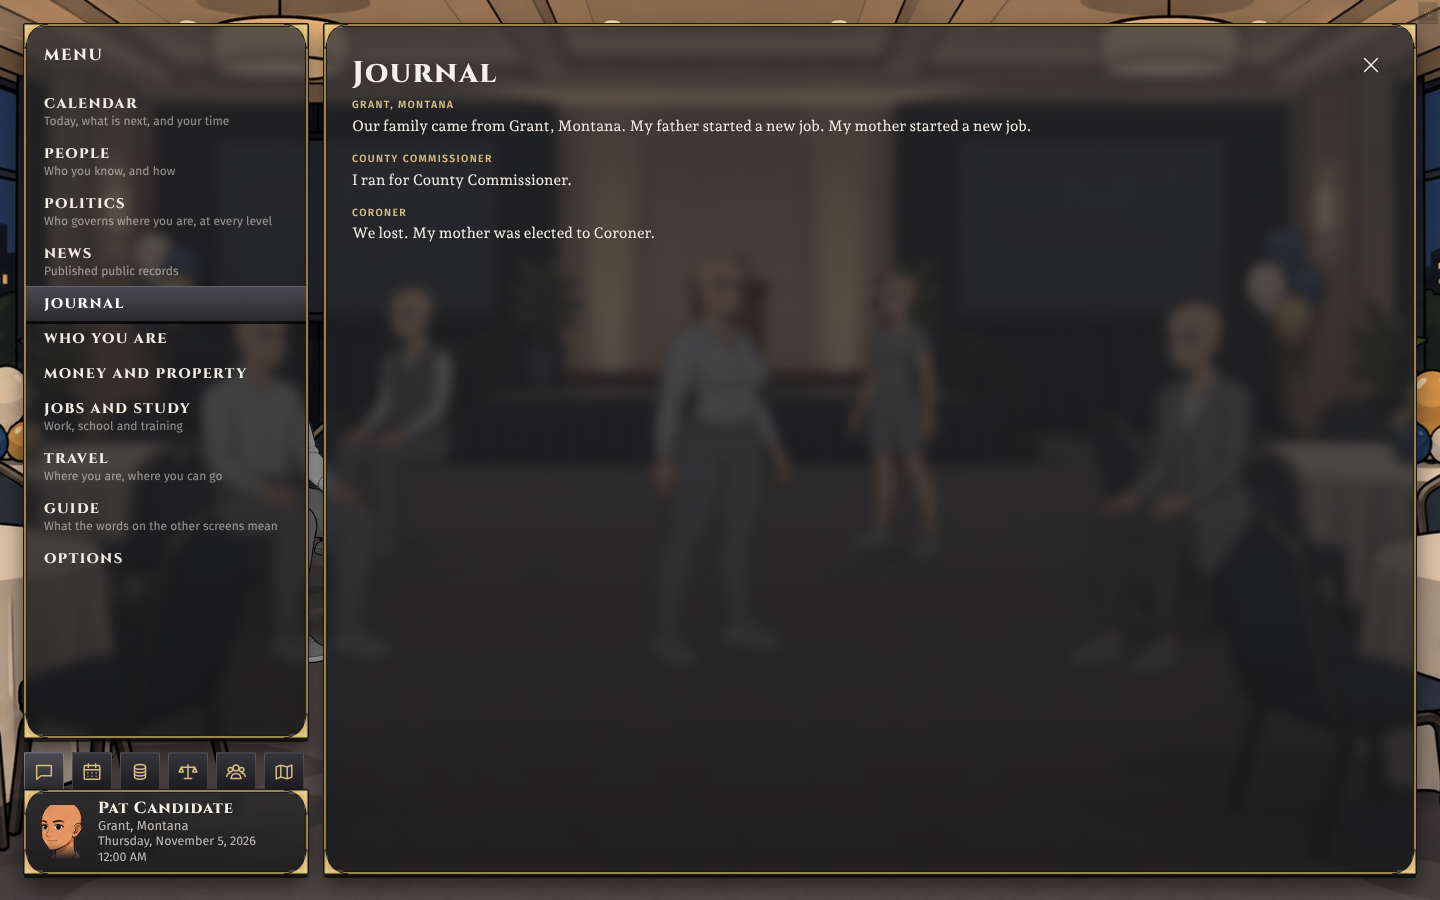
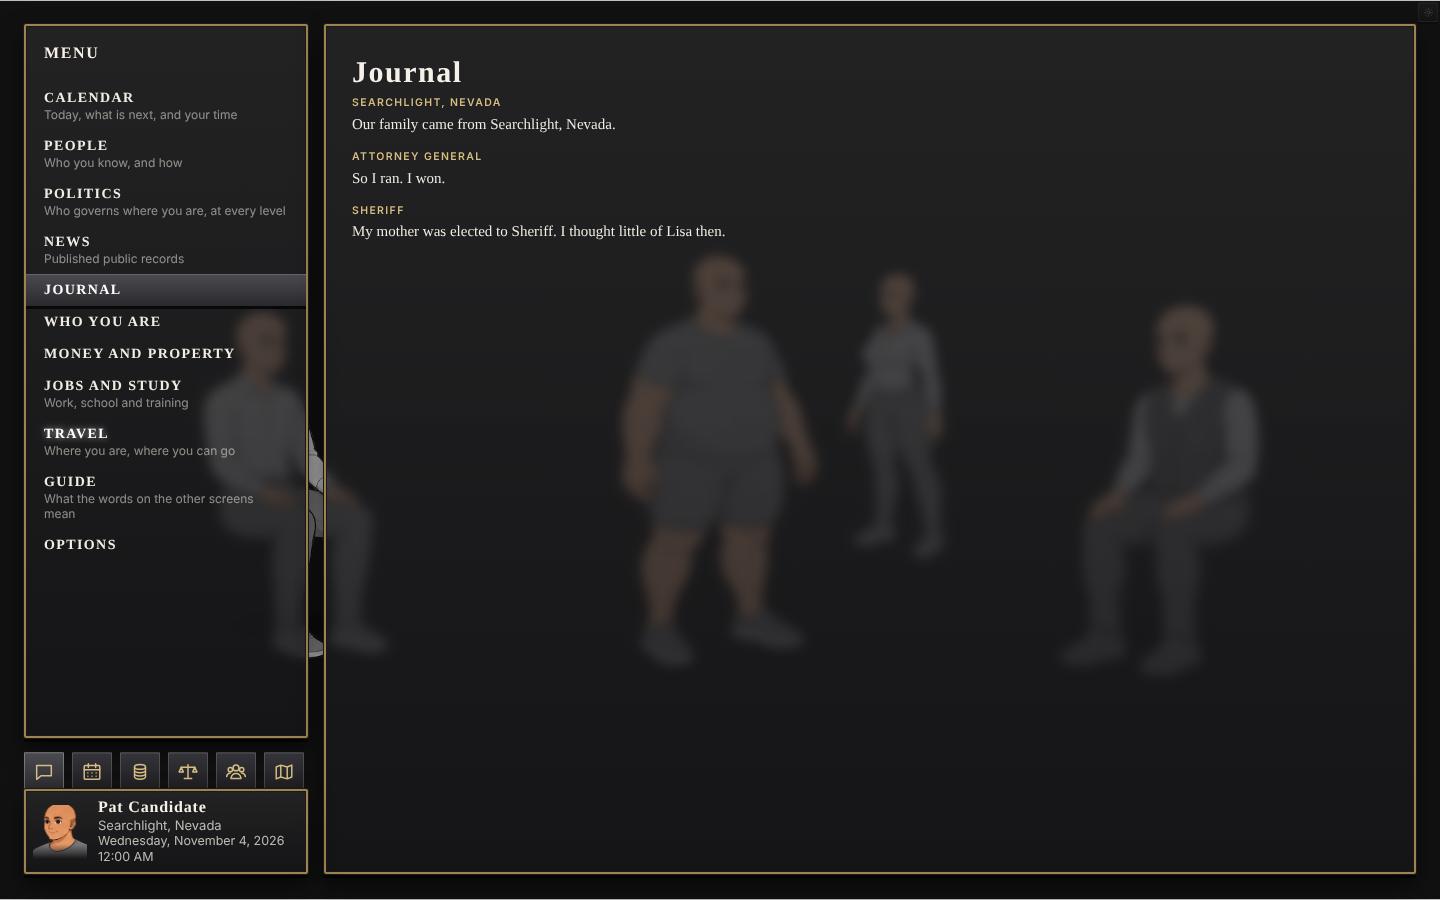
Journal: a race's result is told under that race's own chapter, by contest record id
A relative's race on the same day no longer takes the player's result
under its office heading. Journal screenshot redrawn from a bench world
where the player's mother also won a different office.

Claude-Session: https://claude.ai/code/session_01BaMaPnzjd27EJt6pLVf6r7

diff --git a/src/director/journal.test.ts b/src/director/journal.test.ts
@@ -411,6 +411,80 @@ describe(`the journal in ${base.placeMetadata?.placeName} (seed ${seed})`, () =>
     for (const line of told) expect(line.text).not.toMatch(/\blost\b/);
   });
 
+  it("tells the player's result under the player's own race, not a relative's race of the same day", () => {
+    const me = core.people.get(player.id)!;
+    const relativeId = [...me.familyIds].find((id) => core.people.has(id))!;
+    const strangerId = [...core.people.keys()].find(
+      (id) =>
+        id !== player.id &&
+        id !== relativeId &&
+        !me.knownIds.has(id) &&
+        ![...me.familyIds].includes(id),
+    )!;
+    const source = {
+      tag: "SOURCED" as const,
+      citation: "Fixture shaped like the elections and voting modules.",
+      asOf: core.date,
+    };
+    const emit = (
+      id: string,
+      kind: string,
+      personIds: string[],
+      facts: Record<string, string>,
+    ) =>
+      applyCoreEvent(core, {
+        id,
+        date: core.date,
+        kind,
+        personIds,
+        placeId: me.placeId,
+        publicRecord: true,
+        news: true,
+        source,
+        facts,
+      });
+    emit("candidate-filed:fixture-mine", "candidate-filed", [player.id], {
+      filingId: "fixture-mine",
+      contestId: "contest:fixture-mine",
+      office: "Fixture Seat A",
+    });
+    emit("candidate-filed:fixture-kin", "candidate-filed", [relativeId], {
+      filingId: "fixture-kin",
+      contestId: "contest:fixture-kin",
+      office: "Fixture Seat B",
+    });
+    emit(
+      "election-result:contest:fixture-mine",
+      "election-result",
+      [player.id, strangerId],
+      {
+        contestId: "contest:fixture-mine",
+        office: "Fixture Seat A",
+        winnerId: strangerId,
+      },
+    );
+    emit(
+      "election-result:contest:fixture-kin",
+      "election-result",
+      [relativeId],
+      {
+        contestId: "contest:fixture-kin",
+        office: "Fixture Seat B",
+        winnerId: relativeId,
+      },
+    );
+    advanceCore(core, addDays(makeIsoDate(core.date), 1));
+    const journal = composeJournal(core, director, player.id);
+    const under = (recordId: string) =>
+      journal.find((chapter) =>
+        chapter.lines.some((line) => line.sourceRecordIds.includes(recordId)),
+      );
+    const mine = under("election-result:contest:fixture-mine");
+    expect(mine?.title).toBe("Fixture Seat A");
+    const kin = under("election-result:contest:fixture-kin");
+    if (kin) expect(kin.title).toBe("Fixture Seat B");
+  });
+
   it("tells the player's own race when nobody ran against them", () => {
     const me = core.people.get(player.id)!;
     applyCoreEvent(core, {

diff --git a/src/director/journal.ts b/src/director/journal.ts
@@ -441,6 +441,10 @@ export function composeJournal(
   const settingFactIds: string[] = [];
   const employerIds: string[] = [];
   let chapter: (typeof chapters)[number] | undefined;
+  // The chapter a race's turn opened, by contest record id: the race's result
+  // is told there, never under whatever chapter another person's race (a
+  // relative's, on the same day) opened last.
+  const chapterOfContest = new Map<string, (typeof chapters)[number]>();
   let chapterKind: string | undefined;
   const toldOnce = new Set<string>();
   // Every moment of the person's so far, told or not, and those a later
@@ -556,6 +560,13 @@ export function composeJournal(
         );
       open(moment.id, title?.text ?? "", moment.date);
     }
+    const contestId = core.durableLog.get(moment.causeId)?.facts?.contestId;
+    if (typeof contestId === "string" && row.turn)
+      chapterOfContest.set(contestId, chapter!);
+    const told =
+      (typeof contestId === "string" && !row.turn
+        ? chapterOfContest.get(contestId)
+        : undefined) ?? chapter!;
     // The scene: the event itself, worded for whose it was.
     const own =
       !!selfCount ||
@@ -745,7 +756,7 @@ export function composeJournal(
         parts.push(hook);
       }
     }
-    chapter!.lines.push({
+    told.lines.push({
       id: moment.id,
       date: moment.date,
       text: journalEntry(parts),
@@ -755,7 +766,7 @@ export function composeJournal(
       ],
       ...(changed && revision ? { revises: [changed.id] } : {}),
     });
-    chapter!.through = moment.date;
+    if (moment.date > told.through) told.through = moment.date;
   }
 
   // Revised as life goes on: a schoolmate or a co-worker who now holds office
